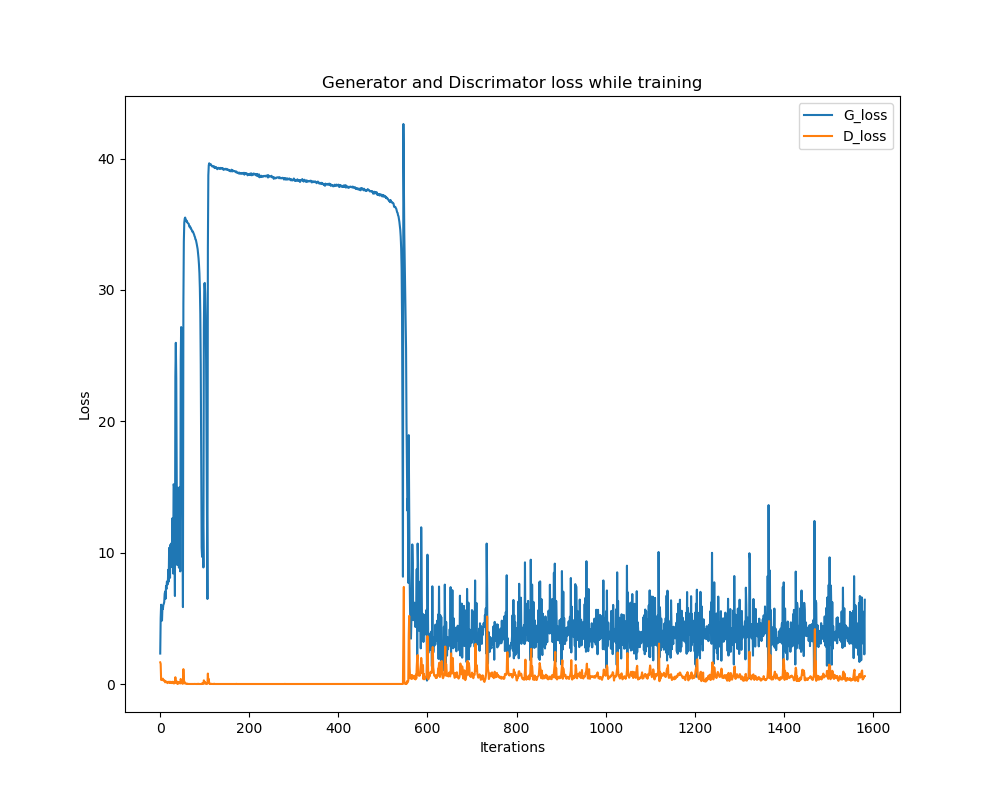
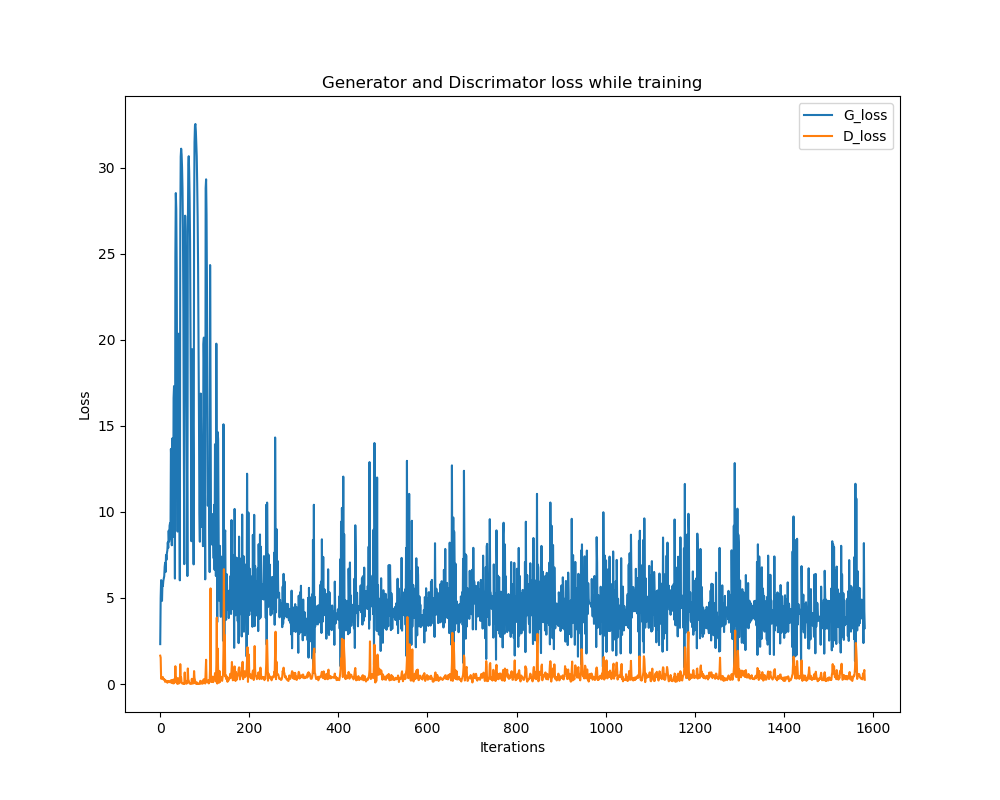
bug fix

diff --git a/dcgan.py b/dcgan.py
@@ -16,6 +16,14 @@ from src.generator import Gen
 from src.discriminator import Disc
 import matplotlib.animation as annime
 from IPython.display import HTML
+import pickle
+import argparse
+
+def get_args():
+    parser = argparse.ArgumentParser("""Train DCGAN for creating fake images""")
+    parser.add_argument('-e', "--num_epochs", type=int, default= 35)
+    args = parser.parse_args()
+    return args
 
 torch.manual_seed(546)
 
@@ -25,7 +33,8 @@ total_epochs = 15
 dataset = dset.ImageFolder(root = 'data/celeba', transform = transform.Compose([transform.Resize(image_size),
                                                                             transform.CenterCrop(image_size),
                                                                             transform.ToTensor(),
-                                                                            transform.Normalize((0.5,0.5,0.5),(0.5,0.5,0.5))]))
+                                                                            transform.Normalize((0.5,0.5,0.5),
+                                                                                                (0.5,0.5,0.5))]))
 
 datasetLoader = DataLoader(dataset=dataset, batch_size=128, shuffle=True)
 device = torch.device("cuda:0" if torch.cuda.is_available() else 'cpu')
@@ -57,11 +66,10 @@ def plot_fig(Gen_losses, Dis_losses):
     plt.ylabel("Loss")
     plt.legend()
     plt.savefig('fig/Loss.png')
-    plt.show()
-    plt.close()
+    return plt.draw()
 
 
-def train(save_performance):
+def train(save_performance, opt):
 
     model_G = Gen(num_GenFeatureMaps = 64, num_OutputChannels = 3, vector_size = 100).to(device)
     model_D = Disc(num_Channels = 3, num_DisFeaturesMaps = 64, vector_size = 100).to(device)
@@ -75,16 +83,15 @@ def train(save_performance):
     real_imgLable = 1
     fake_imgLabel = 0
 
-    optimizerD = optim.Adam(model_D.parameters(), lr= 0.0001, betas=(0.5, 0.999))
-    optimizerG = optim.Adam(model_G.parameters(), lr= 0.0001, betas=(0.5, 0.999))
-
+    optimizerD = optim.Adam(model_D.parameters(), lr= 0.0002, betas=(0.5, 0.999))
+    optimizerG = optim.Adam(model_G.parameters(), lr= 0.0002, betas=(0.5, 0.999))
 
     img_list = []
     G_loss = []
     D_loss = []
     iters = 0
 
-    for epoch in range(total_epochs):
+    for epoch in range(opt.num_epochs):
         for i, data in enumerate(datasetLoader):
             """
             Stage 1: The Discriminator network will be trained on real data and also on fake data, which is generated by 
@@ -134,34 +141,44 @@ def train(save_performance):
             errG.backward()
             D_G_z2 = errG.mean().item()
             optimizerG.step()
-            if i%100==0:
-                print("For iter {}/{} with epoch {} LossD {} LossG {} D(X) {} D(G(z)) {}/{}".format(i+1,len(datasetLoader), epoch+1, errD.item(), errG.item(),D_x, D_G_z1, D_G_z2))
+
+            print("Iter:[{}/{}]\tEpoch:[{}/{}]\tLossD:{}\tLossG:{}\tD(X):{}\tD(G(z)):{}/{}".format(i+1,len(datasetLoader), epoch+1,opt.num_epochs, errD.item(), errG.item(),D_x, D_G_z1, D_G_z2))
+            if i+1 % len(datasetLoader) == 0:
                 with open(save_performance, 'a') as f:
-                    f.write("\nFor [{}/{}] with epoch:{}, LossD:{}, LossG:{}, D(X):{}, D(G(z)):{}/{}\n".format(i+1,len(datasetLoader), epoch+1, errD.item(), errG.item(),D_x, D_G_z1, D_G_z2))
+                    f.write("Iter:[{}/{}]\tEpoch:[{}/{}]\tLossD:{}\tLossG:{}\tD(X):{}\tD(G(z)):{}/{}\n".format(i+1,len(datasetLoader), epoch+1,opt.num_epochs, errD.item(), errG.item(),D_x, D_G_z1, D_G_z2))
 
             G_loss.append(errG.item())
             D_loss.append(errD.item())
 
             # print fake images with a frequency of 500 iterations of update to Generator network weights
-            if (iters% 500 ==0) or (epoch+1 == total_epochs) and (i+1==len(datasetLoader)):
+            if (iters% 500 ==0) or (epoch+1 == opt.num_epochs) or (i+1==len(datasetLoader)):
                 with torch.no_grad():
                     fake_image = model_G(fixed_noise).detach().cpu()
                 img_list.append(vutils.make_grid(fake_image, padding=2,normalize=True))
                 iters += 1
         torch.save(model_G, 'models/generator_model')
         torch.save(model_D, 'models/discriminator_model')
-    loss_plot = plot_fig(Gen_losses=G_loss, Dis_losses=D_loss)
-    return loss_plot, img_list
+        plot_fig(Gen_losses=G_loss, Dis_losses=D_loss)
+    losses ={}
+    losses['G_loss']=G_loss
+    losses['D_loss']=D_loss
+    with open('results/losses.pkl','wb') as f:
+        pickle.dump(losses, f)
+    return img_list
 
 if __name__ == '__main__':
-    loss_plot, img_list = train(save_performance='results/performance.txt')
+    opt= get_args()
+    img_list = train(save_performance='results/performance.txt', opt=opt)
+    with open('results/fake_images.pkl', 'wb') as f:
+        pickle.dump(img_list, file=f)
     # visualize the fake images
     fig = plt.figure(figsize=(8,8))
     plt.axis("off")
     img = [[plt.imshow(np.transpose(i, (1,2,0)),animated= True)] for i in img_list]
     animation_ = annime.ArtistAnimation(fig, img, interval= 1000, repeat_delay= 1000, blit=True)
     animation_.save('fig/animation.gif', writer= 'imagemagick',fps=60)
-    HTML(animation_.to_jshtml())
+    plt.show()
+    print(HTML(animation_.to_jshtml()))
 
 
 
